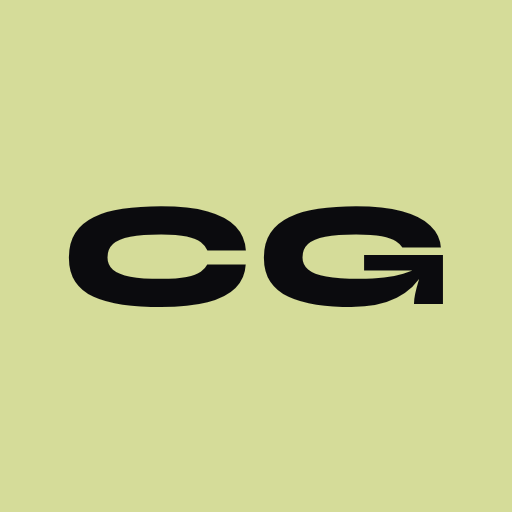
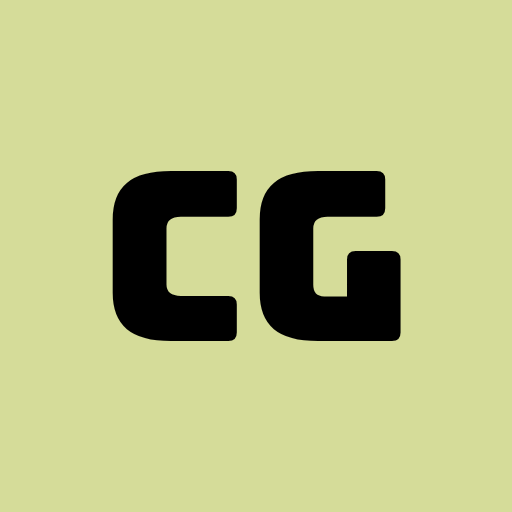
Add files via upload

Changed region(s): [[0.125, 0.3125, 0.875, 0.6875]]

diff --git a/index.html b/index.html
@@ -9,14 +9,14 @@
 <meta property="og:site_name" content="Common Ground">
 <meta property="og:title" content="Common Ground — Build on common ground">
 <meta property="og:description" content="One place for homeowners and contractors: proposals, code checks, approvals, change orders and live progress. Free to use.">
-<meta property="og:image" content="https://www.buildcommonground.io/og.png">
+<meta property="og:image" content="https://www.buildcommonground.io/og.png?v=2">
 <meta property="og:image:width" content="1200">
 <meta property="og:image:height" content="630">
 <meta property="og:image:alt" content="Common Ground logo">
 <meta name="twitter:card" content="summary_large_image">
-<meta name="twitter:image" content="https://www.buildcommonground.io/og.png">
-<link rel="icon" type="image/png" href="/favicon.png">
-<link rel="apple-touch-icon" href="/apple-touch-icon.png">
+<meta name="twitter:image" content="https://www.buildcommonground.io/og.png?v=2">
+<link rel="icon" type="image/png" href="/favicon.png?v=2">
+<link rel="apple-touch-icon" href="/apple-touch-icon.png?v=2">
 <meta name="theme-color" content="#111015">
 <meta name="description" content="One place for homeowners and contractors: proposals, code checks, approvals, change orders and live progress. Free to use.">
 <link href="https://fonts.googleapis.com/css2?family=Syne:wght@600;700;800&family=DM+Sans:wght@400;500;600;700&display=swap" rel="stylesheet">
@@ -141,13 +141,14 @@ footer .wrap{display:flex;justify-content:space-between;gap:16px;flex-wrap:wrap}
   .cta-row .btn{flex:1}
 }
 </style>
-<link rel="stylesheet" href="https://use.typekit.net/yiu3yds.css" id="brand-kit">
+<link rel="stylesheet" href="https://fonts.googleapis.com/css2?family=Bungee&display=swap" id="brand-kit">
 <style id="brand-v2">
 :root{--black:#000000;--d1:#000000;--d2:#1A1A1A;--d3:#262626;--d4:#333333;--white:#D9DAD4;--sage:#A39684;--stone:#6D604F;--limestone:#D9DAD4;--graphite:#333333;
  --w08:rgba(217,218,212,.10);--w15:rgba(217,218,212,.18);--w30:rgba(217,218,212,.34);--w50:rgba(217,218,212,.6);--w70:rgba(217,218,212,.8)}
 html,body{background:#000}
 .nav,.top{background:rgba(0,0,0,.92)!important}
-h1,h2,.compare h3,.free h3,#m h3,.calc .big{font-family:'lulo-one',Syne,sans-serif!important;font-weight:700!important;letter-spacing:0!important}
+h1,h2,.compare h3,.free h3,#m h3,.calc .big{font-family:'Bungee',sans-serif!important;font-weight:400!important;letter-spacing:0!important}
+.mark b,.mark span,.top-mark span{font-family:'Bungee',sans-serif!important;font-weight:400!important;letter-spacing:0!important}
 #problems{background:#6D604F;border-top:none}
 #problems .eyebrow{color:rgba(217,218,212,.8)}
 #problems .sub{color:rgba(217,218,212,.9)}

diff --git a/api/_pages/login.html b/api/_pages/login.html
@@ -9,14 +9,14 @@
 <meta property="og:site_name" content="Common Ground">
 <meta property="og:title" content="Common Ground — your project">
 <meta property="og:description" content="One place for homeowners and contractors: proposals, code checks, approvals, change orders and live progress. Free to use.">
-<meta property="og:image" content="https://www.buildcommonground.io/og.png">
+<meta property="og:image" content="https://www.buildcommonground.io/og.png?v=2">
 <meta property="og:image:width" content="1200">
 <meta property="og:image:height" content="630">
 <meta property="og:image:alt" content="Common Ground logo">
 <meta name="twitter:card" content="summary_large_image">
-<meta name="twitter:image" content="https://www.buildcommonground.io/og.png">
-<link rel="icon" type="image/png" href="/favicon.png">
-<link rel="apple-touch-icon" href="/apple-touch-icon.png">
+<meta name="twitter:image" content="https://www.buildcommonground.io/og.png?v=2">
+<link rel="icon" type="image/png" href="/favicon.png?v=2">
+<link rel="apple-touch-icon" href="/apple-touch-icon.png?v=2">
 <meta name="theme-color" content="#111015">
 <link href="https://fonts.googleapis.com/css2?family=Syne:wght@600;700;800&family=DM+Sans:wght@400;500;600;700&display=swap" rel="stylesheet">
 <style>
@@ -46,13 +46,14 @@ button.primary:disabled{opacity:.5;cursor:default}
 .foot{margin-top:16px;font-size:11px;color:var(--w30);line-height:1.6;text-align:center}
 .role{display:inline-block;font-size:9px;font-weight:700;padding:2px 8px;border-radius:20px;background:var(--l10);color:var(--lime);border:1px solid var(--l20);margin-left:6px;vertical-align:middle}
 </style>
-<link rel="stylesheet" href="https://use.typekit.net/yiu3yds.css" id="brand-kit">
+<link rel="stylesheet" href="https://fonts.googleapis.com/css2?family=Bungee&display=swap" id="brand-kit">
 <style id="brand-v2">
 :root{--black:#000000;--d1:#000000;--d2:#1A1A1A;--d3:#262626;--d4:#333333;--white:#D9DAD4;--sage:#A39684;--stone:#6D604F;--limestone:#D9DAD4;--graphite:#333333;
  --w08:rgba(217,218,212,.10);--w15:rgba(217,218,212,.18);--w30:rgba(217,218,212,.34);--w50:rgba(217,218,212,.6);--w70:rgba(217,218,212,.8)}
 html,body{background:#000}
 .nav,.top{background:rgba(0,0,0,.92)!important}
-h1,h2,h3.never{font-family:'lulo-one',Syne,sans-serif!important;font-weight:700!important;letter-spacing:0!important}
+h1,h2,h3.never{font-family:'Bungee',sans-serif!important;font-weight:400!important;letter-spacing:0!important}
+.mark b,.mark span,.top-mark span{font-family:'Bungee',sans-serif!important;font-weight:400!important;letter-spacing:0!important}
 </style>
 </head>
 <body>

diff --git a/api/_pages/bid.html b/api/_pages/bid.html
@@ -9,14 +9,14 @@
 <meta property="og:site_name" content="Common Ground">
 <meta property="og:title" content="Submit your proposal on Common Ground">
 <meta property="og:description" content="One place for homeowners and contractors: proposals, code checks, approvals, change orders and live progress. Free to use.">
-<meta property="og:image" content="https://www.buildcommonground.io/og.png">
+<meta property="og:image" content="https://www.buildcommonground.io/og.png?v=2">
 <meta property="og:image:width" content="1200">
 <meta property="og:image:height" content="630">
 <meta property="og:image:alt" content="Common Ground logo">
 <meta name="twitter:card" content="summary_large_image">
-<meta name="twitter:image" content="https://www.buildcommonground.io/og.png">
-<link rel="icon" type="image/png" href="/favicon.png">
-<link rel="apple-touch-icon" href="/apple-touch-icon.png">
+<meta name="twitter:image" content="https://www.buildcommonground.io/og.png?v=2">
+<link rel="icon" type="image/png" href="/favicon.png?v=2">
+<link rel="apple-touch-icon" href="/apple-touch-icon.png?v=2">
 <meta name="theme-color" content="#111015">
 <link href="https://fonts.googleapis.com/css2?family=Syne:wght@600;700;800&family=DM+Sans:wght@400;500;600;700&display=swap" rel="stylesheet">
 <style>
@@ -58,13 +58,14 @@ button.ghost{width:100%;padding:11px;background:none;border:1px solid var(--l20)
 .help{margin-top:34px;padding-top:20px;border-top:1px solid var(--w08)}
 .foot{margin-top:14px;font-size:10px;color:var(--w30);line-height:1.6;text-align:center}
 </style>
-<link rel="stylesheet" href="https://use.typekit.net/yiu3yds.css" id="brand-kit">
+<link rel="stylesheet" href="https://fonts.googleapis.com/css2?family=Bungee&display=swap" id="brand-kit">
 <style id="brand-v2">
 :root{--black:#000000;--d1:#000000;--d2:#1A1A1A;--d3:#262626;--d4:#333333;--white:#D9DAD4;--sage:#A39684;--stone:#6D604F;--limestone:#D9DAD4;--graphite:#333333;
  --w08:rgba(217,218,212,.10);--w15:rgba(217,218,212,.18);--w30:rgba(217,218,212,.34);--w50:rgba(217,218,212,.6);--w70:rgba(217,218,212,.8)}
 html,body{background:#000}
 .nav,.top{background:rgba(0,0,0,.92)!important}
-h1,h2,h3.never{font-family:'lulo-one',Syne,sans-serif!important;font-weight:700!important;letter-spacing:0!important}
+h1,h2,h3.never{font-family:'Bungee',sans-serif!important;font-weight:400!important;letter-spacing:0!important}
+.mark b,.mark span,.top-mark span{font-family:'Bungee',sans-serif!important;font-weight:400!important;letter-spacing:0!important}
 </style>
 </head>
 <body>

diff --git a/api/_pages/help.html b/api/_pages/help.html
@@ -9,14 +9,14 @@
 <meta property="og:site_name" content="Common Ground">
 <meta property="og:title" content="Common Ground — Contact us">
 <meta property="og:description" content="One place for homeowners and contractors: proposals, code checks, approvals, change orders and live progress. Free to use.">
-<meta property="og:image" content="https://www.buildcommonground.io/og.png">
+<meta property="og:image" content="https://www.buildcommonground.io/og.png?v=2">
 <meta property="og:image:width" content="1200">
 <meta property="og:image:height" content="630">
 <meta property="og:image:alt" content="Common Ground logo">
 <meta name="twitter:card" content="summary_large_image">
-<meta name="twitter:image" content="https://www.buildcommonground.io/og.png">
-<link rel="icon" type="image/png" href="/favicon.png">
-<link rel="apple-touch-icon" href="/apple-touch-icon.png">
+<meta name="twitter:image" content="https://www.buildcommonground.io/og.png?v=2">
+<link rel="icon" type="image/png" href="/favicon.png?v=2">
+<link rel="apple-touch-icon" href="/apple-touch-icon.png?v=2">
 <meta name="theme-color" content="#111015">
 <link href="https://fonts.googleapis.com/css2?family=Syne:wght@600;700;800&family=DM+Sans:wght@400;500;600;700&display=swap" rel="stylesheet">
 <style>
@@ -58,13 +58,14 @@ button.ghost{width:100%;padding:11px;background:none;border:1px solid var(--l20)
 .help{margin-top:34px;padding-top:20px;border-top:1px solid var(--w08)}
 .foot{margin-top:14px;font-size:10px;color:var(--w30);line-height:1.6;text-align:center}
 </style>
-<link rel="stylesheet" href="https://use.typekit.net/yiu3yds.css" id="brand-kit">
+<link rel="stylesheet" href="https://fonts.googleapis.com/css2?family=Bungee&display=swap" id="brand-kit">
 <style id="brand-v2">
 :root{--black:#000000;--d1:#000000;--d2:#1A1A1A;--d3:#262626;--d4:#333333;--white:#D9DAD4;--sage:#A39684;--stone:#6D604F;--limestone:#D9DAD4;--graphite:#333333;
  --w08:rgba(217,218,212,.10);--w15:rgba(217,218,212,.18);--w30:rgba(217,218,212,.34);--w50:rgba(217,218,212,.6);--w70:rgba(217,218,212,.8)}
 html,body{background:#000}
 .nav,.top{background:rgba(0,0,0,.92)!important}
-h1,h2,h3.never{font-family:'lulo-one',Syne,sans-serif!important;font-weight:700!important;letter-spacing:0!important}
+h1,h2,h3.never{font-family:'Bungee',sans-serif!important;font-weight:400!important;letter-spacing:0!important}
+.mark b,.mark span,.top-mark span{font-family:'Bungee',sans-serif!important;font-weight:400!important;letter-spacing:0!important}
 </style>
 </head>
 <body>

diff --git a/api/_pages/workspace.html b/api/_pages/workspace.html
@@ -7,14 +7,14 @@
 <title>Common Ground — Project</title>
 <meta property="og:type" content="website">
 <meta property="og:site_name" content="Common Ground">
-<meta property="og:image" content="https://www.buildcommonground.io/og.png">
+<meta property="og:image" content="https://www.buildcommonground.io/og.png?v=2">
 <meta property="og:image:width" content="1200">
 <meta property="og:image:height" content="630">
 <meta property="og:image:alt" content="Common Ground logo">
 <meta name="twitter:card" content="summary_large_image">
-<meta name="twitter:image" content="https://www.buildcommonground.io/og.png">
-<link rel="icon" type="image/png" href="/favicon.png">
-<link rel="apple-touch-icon" href="/apple-touch-icon.png">
+<meta name="twitter:image" content="https://www.buildcommonground.io/og.png?v=2">
+<link rel="icon" type="image/png" href="/favicon.png?v=2">
+<link rel="apple-touch-icon" href="/apple-touch-icon.png?v=2">
 <meta name="theme-color" content="#111015">
 <link href="https://fonts.googleapis.com/css2?family=Syne:wght@600;700;800&family=DM+Sans:wght@400;500;600;700&display=swap" rel="stylesheet">
 <style>
@@ -116,13 +116,14 @@ model-viewer{width:100%;height:420px;background:#0d0d11;border-radius:14px;--pos
   .item{flex-wrap:wrap}.srow{grid-template-columns:1fr 1fr}#admin-views{display:none}.right .who{display:none}model-viewer{height:320px}
 }
 </style>
-<link rel="stylesheet" href="https://use.typekit.net/yiu3yds.css" id="brand-kit">
+<link rel="stylesheet" href="https://fonts.googleapis.com/css2?family=Bungee&display=swap" id="brand-kit">
 <style id="brand-v2">
 :root{--black:#000000;--d1:#000000;--d2:#1A1A1A;--d3:#262626;--d4:#333333;--white:#D9DAD4;--sage:#A39684;--stone:#6D604F;--limestone:#D9DAD4;--graphite:#333333;
  --w08:rgba(217,218,212,.10);--w15:rgba(217,218,212,.18);--w30:rgba(217,218,212,.34);--w50:rgba(217,218,212,.6);--w70:rgba(217,218,212,.8)}
 html,body{background:#000}
 .nav,.top{background:rgba(0,0,0,.92)!important}
-h1,h2,#m h3,.big{font-family:'lulo-one',Syne,sans-serif!important;font-weight:700!important;letter-spacing:0!important}
+h1,h2,#m h3,.big{font-family:'Bungee',sans-serif!important;font-weight:400!important;letter-spacing:0!important}
+.mark b,.mark span,.top-mark span{font-family:'Bungee',sans-serif!important;font-weight:400!important;letter-spacing:0!important}
 </style>
 </head>
 <body>

diff --git a/api/_pages/dashboard.html b/api/_pages/dashboard.html
@@ -7,14 +7,14 @@
 <title>Common Ground — Dashboard</title>
 <meta property="og:type" content="website">
 <meta property="og:site_name" content="Common Ground">
-<meta property="og:image" content="https://www.buildcommonground.io/og.png">
+<meta property="og:image" content="https://www.buildcommonground.io/og.png?v=2">
 <meta property="og:image:width" content="1200">
 <meta property="og:image:height" content="630">
 <meta property="og:image:alt" content="Common Ground logo">
 <meta name="twitter:card" content="summary_large_image">
-<meta name="twitter:image" content="https://www.buildcommonground.io/og.png">
-<link rel="icon" type="image/png" href="/favicon.png">
-<link rel="apple-touch-icon" href="/apple-touch-icon.png">
+<meta name="twitter:image" content="https://www.buildcommonground.io/og.png?v=2">
+<link rel="icon" type="image/png" href="/favicon.png?v=2">
+<link rel="apple-touch-icon" href="/apple-touch-icon.png?v=2">
 <meta name="theme-color" content="#111015">
 <link href="https://fonts.googleapis.com/css2?family=Syne:wght@600;700;800&family=DM+Sans:wght@400;500;600;700&display=swap" rel="stylesheet">
 <style>
@@ -123,13 +123,14 @@ input[type=range]{accent-color:#D5DC99;padding:0!important;border:none!important
   #m{padding:22px 18px}
 }
 </style>
-<link rel="stylesheet" href="https://use.typekit.net/yiu3yds.css" id="brand-kit">
+<link rel="stylesheet" href="https://fonts.googleapis.com/css2?family=Bungee&display=swap" id="brand-kit">
 <style id="brand-v2">
 :root{--black:#000000;--d1:#000000;--d2:#1A1A1A;--d3:#262626;--d4:#333333;--white:#D9DAD4;--sage:#A39684;--stone:#6D604F;--limestone:#D9DAD4;--graphite:#333333;
  --w08:rgba(217,218,212,.10);--w15:rgba(217,218,212,.18);--w30:rgba(217,218,212,.34);--w50:rgba(217,218,212,.6);--w70:rgba(217,218,212,.8)}
 html,body{background:#000}
 .nav,.top{background:rgba(0,0,0,.92)!important}
-h1,h2,#m h3,.pcard .nm,.start h2,.upsell h3{font-family:'lulo-one',Syne,sans-serif!important;font-weight:700!important;letter-spacing:0!important}
+h1,h2,#m h3,.pcard .nm,.start h2,.upsell h3{font-family:'Bungee',sans-serif!important;font-weight:400!important;letter-spacing:0!important}
+.mark b,.mark span,.top-mark span{font-family:'Bungee',sans-serif!important;font-weight:400!important;letter-spacing:0!important}
 </style>
 </head>
 <body>

diff --git a/api/_pages/admin.html b/api/_pages/admin.html
@@ -7,14 +7,14 @@
 <title>Common Ground — Platform console</title>
 <meta property="og:type" content="website">
 <meta property="og:site_name" content="Common Ground">
-<meta property="og:image" content="https://www.buildcommonground.io/og.png">
+<meta property="og:image" content="https://www.buildcommonground.io/og.png?v=2">
 <meta property="og:image:width" content="1200">
 <meta property="og:image:height" content="630">
 <meta property="og:image:alt" content="Common Ground logo">
 <meta name="twitter:card" content="summary_large_image">
-<meta name="twitter:image" content="https://www.buildcommonground.io/og.png">
-<link rel="icon" type="image/png" href="/favicon.png">
-<link rel="apple-touch-icon" href="/apple-touch-icon.png">
+<meta name="twitter:image" content="https://www.buildcommonground.io/og.png?v=2">
+<link rel="icon" type="image/png" href="/favicon.png?v=2">
+<link rel="apple-touch-icon" href="/apple-touch-icon.png?v=2">
 <meta name="theme-color" content="#111015">
 <link href="https://fonts.googleapis.com/css2?family=Syne:wght@600;700;800&family=DM+Sans:wght@400;500;600;700&display=swap" rel="stylesheet">
 <style>
@@ -105,13 +105,14 @@ select.mini{width:auto;padding:6px 8px;font-size:12px}
   .who .nm{display:none}
 }
 </style>
-<link rel="stylesheet" href="https://use.typekit.net/yiu3yds.css" id="brand-kit">
+<link rel="stylesheet" href="https://fonts.googleapis.com/css2?family=Bungee&display=swap" id="brand-kit">
 <style id="brand-v2">
 :root{--black:#000000;--d1:#000000;--d2:#1A1A1A;--d3:#262626;--d4:#333333;--white:#D9DAD4;--sage:#A39684;--stone:#6D604F;--limestone:#D9DAD4;--graphite:#333333;
  --w08:rgba(217,218,212,.10);--w15:rgba(217,218,212,.18);--w30:rgba(217,218,212,.34);--w50:rgba(217,218,212,.6);--w70:rgba(217,218,212,.8)}
 html,body{background:#000}
 .nav,.top{background:rgba(0,0,0,.92)!important}
-h1,h2,.stat .v{font-family:'lulo-one',Syne,sans-serif!important;font-weight:700!important;letter-spacing:0!important}
+h1,h2,.stat .v{font-family:'Bungee',sans-serif!important;font-weight:400!important;letter-spacing:0!important}
+.mark b,.mark span,.top-mark span{font-family:'Bungee',sans-serif!important;font-weight:400!important;letter-spacing:0!important}
 </style>
 </head>
 <body>

diff --git a/api/_pages/anita.html b/api/_pages/anita.html
@@ -483,11 +483,12 @@ body::after{content:"";position:fixed;inset:0;pointer-events:none;z-index:9999;
 }
 
 </style>
-<link rel="stylesheet" href="https://use.typekit.net/yiu3yds.css" id="brand-kit">
+<link rel="stylesheet" href="https://fonts.googleapis.com/css2?family=Bungee&display=swap" id="brand-kit">
 <style id="brand-v2">
 :root{--black:#000000;--d1:#141414;--d2:#1C1C1C;--d3:#262626;--d4:#333333;--d5:#3D3D3D;--white:#D9DAD4;--sage:#A39684;
  --w04:rgba(217,218,212,.05);--w08:rgba(217,218,212,.10);--w15:rgba(217,218,212,.18);--w30:rgba(217,218,212,.34);--w50:rgba(217,218,212,.6);--w70:rgba(217,218,212,.8)}
-h1,h2,#pg-greeting,.sh-title{font-family:'lulo-one',Syne,sans-serif!important;font-weight:700!important;letter-spacing:0!important}
+h1,h2,#pg-greeting,.sh-title{font-family:'Bungee',sans-serif!important;font-weight:400!important;letter-spacing:0!important}
+.mark b,.mark span,.top-mark span{font-family:'Bungee',sans-serif!important;font-weight:400!important;letter-spacing:0!important}
 </style>
 </head>
 <body>
@@ -498,7 +499,7 @@ h1,h2,#pg-greeting,.sh-title{font-family:'lulo-one',Syne,sans-serif!important;fo
 <div class="top">
   <button class="mob-btn" onclick="openSb()"><i class="ti ti-menu-2"></i></button>
   <div class="top-mark"><span>CG</span></div>
-  <span style="font-family:Syne,sans-serif;font-size:12px;font-weight:700;color:var(--lime);letter-spacing:-.01em">Common Ground</span>
+  <span style="font-family:Bungee,sans-serif;font-size:12px;font-weight:400;color:var(--lime);letter-spacing:0;white-space:nowrap">Common Ground</span>
   <div id="role-banner" style="display:none"></div>
   <div style="width:1px;height:12px;background:var(--w08)"></div>
   <div class="top-pill"><div class="top-dot"></div>Phase 1 proposal out for owner signature · Sep 18</div>

diff --git a/api/_pages/coolidge.html b/api/_pages/coolidge.html
@@ -483,11 +483,12 @@ body::after{content:"";position:fixed;inset:0;pointer-events:none;z-index:9999;
 }
 
 </style>
-<link rel="stylesheet" href="https://use.typekit.net/yiu3yds.css" id="brand-kit">
+<link rel="stylesheet" href="https://fonts.googleapis.com/css2?family=Bungee&display=swap" id="brand-kit">
 <style id="brand-v2">
 :root{--black:#000000;--d1:#141414;--d2:#1C1C1C;--d3:#262626;--d4:#333333;--d5:#3D3D3D;--white:#D9DAD4;--sage:#A39684;
  --w04:rgba(217,218,212,.05);--w08:rgba(217,218,212,.10);--w15:rgba(217,218,212,.18);--w30:rgba(217,218,212,.34);--w50:rgba(217,218,212,.6);--w70:rgba(217,218,212,.8)}
-h1,h2,#pg-greeting,.sh-title{font-family:'lulo-one',Syne,sans-serif!important;font-weight:700!important;letter-spacing:0!important}
+h1,h2,#pg-greeting,.sh-title{font-family:'Bungee',sans-serif!important;font-weight:400!important;letter-spacing:0!important}
+.mark b,.mark span,.top-mark span{font-family:'Bungee',sans-serif!important;font-weight:400!important;letter-spacing:0!important}
 </style>
 </head>
 <body>
@@ -498,7 +499,7 @@ h1,h2,#pg-greeting,.sh-title{font-family:'lulo-one',Syne,sans-serif!important;fo
 <div class="top">
   <button class="mob-btn" onclick="openSb()"><i class="ti ti-menu-2"></i></button>
   <div class="top-mark"><span>CG</span></div>
-  <span style="font-family:Syne,sans-serif;font-size:12px;font-weight:700;color:var(--lime);letter-spacing:-.01em">Common Ground</span>
+  <span style="font-family:Bungee,sans-serif;font-size:12px;font-weight:400;color:var(--lime);letter-spacing:0;white-space:nowrap">Common Ground</span>
   <div id="role-banner" style="display:none"></div>
   <div style="width:1px;height:12px;background:var(--w08)"></div>
   <div class="top-pill"><div class="top-dot"></div>Electricians on site · June 26</div>
